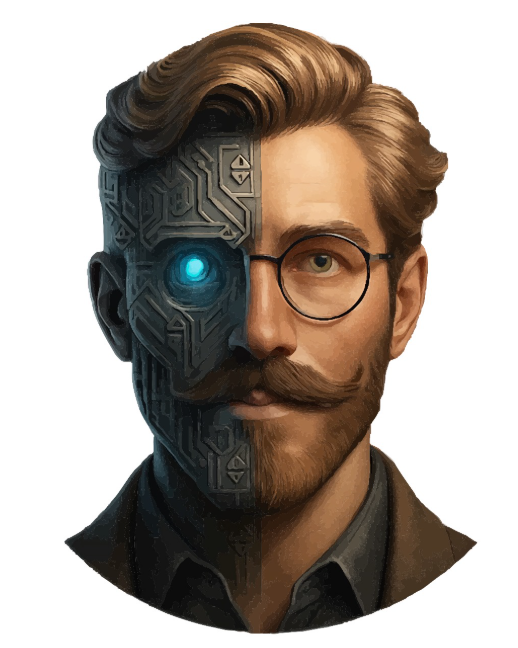
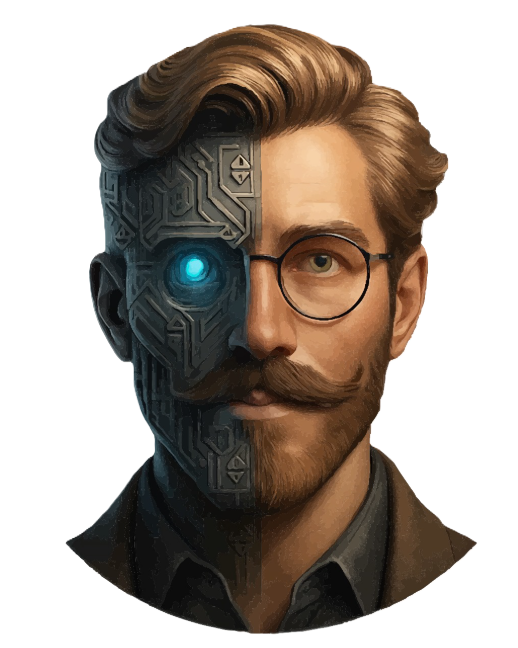
Tema Oscuro

diff --git a/site/index.html b/site/index.html
@@ -668,7 +668,7 @@
 <p>Este manual está destinado al personal de soporte y administradores encargados de instalar, configurar y mantener el sistema <strong>Edu 2.0</strong>.</p>
 <p>Incluye requisitos técnicos, procedimientos de instalación y pautas de administración.</p>
 <p align="center">
-  <img src="img/EDU.png" alt="Logo Edu 2.0" width="60%">
+  <img src="img/EDU.png" alt="Logo Edu 2.0" width="50%">
 </p>
 
 

diff --git a/docs/overrides.css b/docs/overrides.css
@@ -1,0 +1,9 @@
+/* Imagen por defecto (modo claro) */
+#edu-logo {
+  content: url('/img/EDU.png');
+}
+
+/* Imagen en modo oscuro */
+[data-md-color-scheme="slate"] #edu-logo {
+  content: url('/img/EDU-Oscuro.png');
+}

diff --git a/docs/index.md b/docs/index.md
@@ -5,5 +5,8 @@ Este manual está destinado al personal de soporte y administradores encargados 
 Incluye requisitos técnicos, procedimientos de instalación y pautas de administración.
 
 <p align="center">
-  <img src="img/EDU.png" alt="Logo Edu 2.0" width="50%">
+  <img id="edu-logo" src="img/EDU.png" alt="Logo Edu 2.0" width="50%">
 </p>
+
+
+
